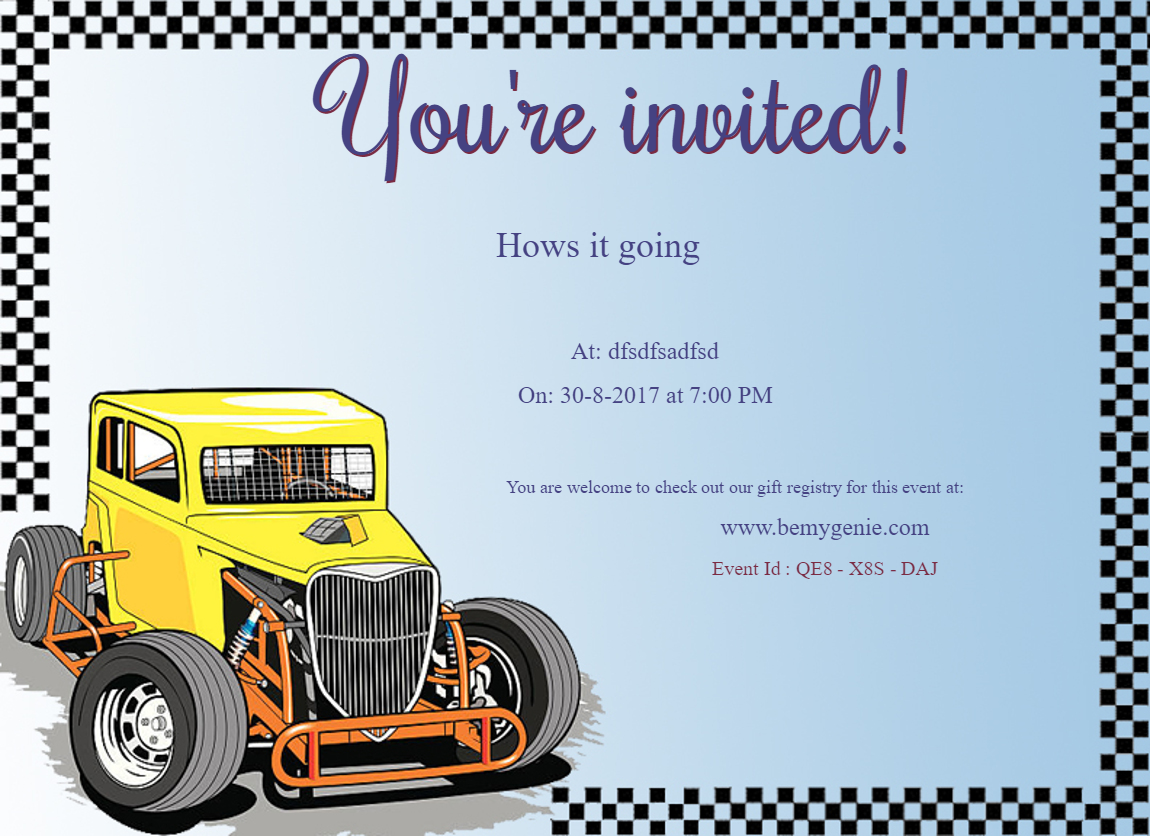
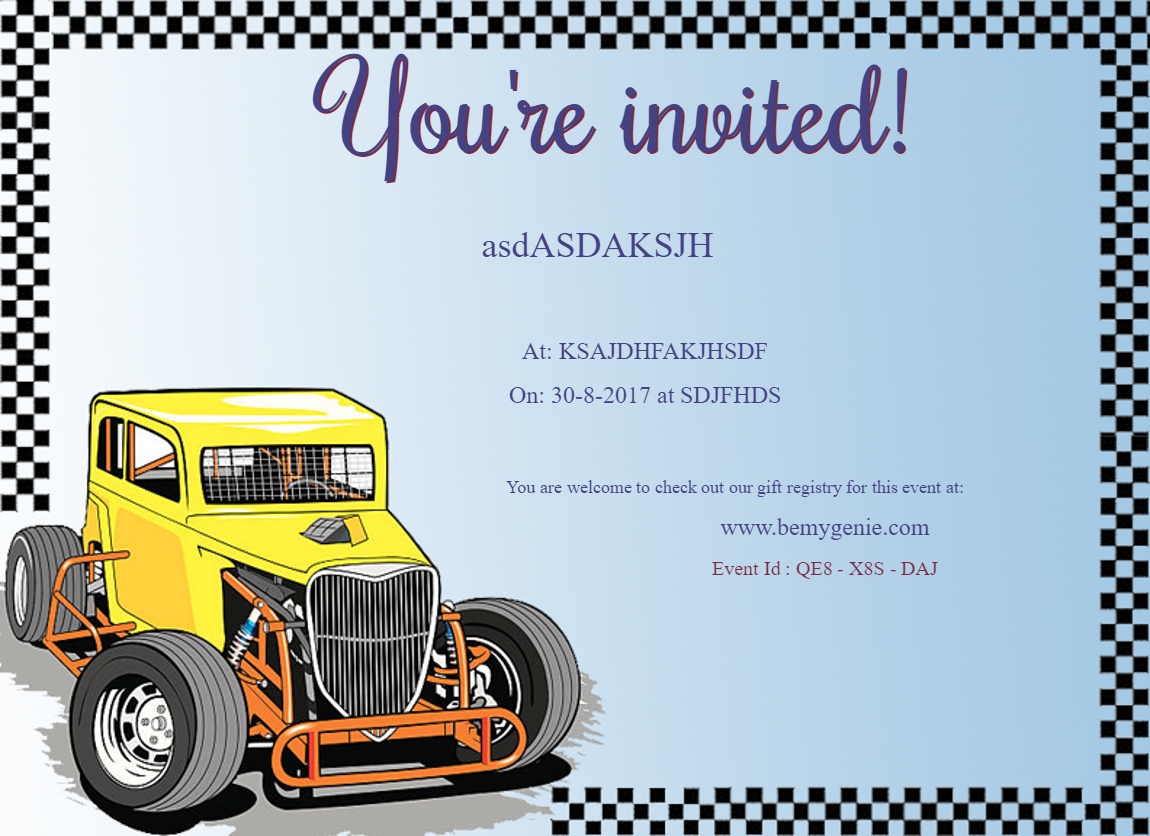
working on invites

Changed region(s): [[0.4261, 0.4665, 0.6696, 0.4976], [0.4565, 0.4043, 0.6696, 0.4354], [0.4261, 0.2799, 0.6391, 0.311]]

diff --git a/public/JSFiles/invite_composer.js b/public/JSFiles/invite_composer.js
@@ -1,4 +1,28 @@
 function startComposing(){
+  if ($('#event_greeting').val() == "") {
+    $('#warning_modal-title-id').text('Warning');
+    $('#warning_modal-p-id').text('Please provide an invite greeting.');
+    $('#warning_modal').modal('show');
+    return false;
+  }
+  if ($('#event_address').val() == "") {
+    $('#warning_modal-title-id').text('Warning');
+    $('#warning_modal-p-id').text('Please provide the address/venue for your event.');
+    $('#warning_modal').modal('show');
+    return false;
+  }
+  if ($('#event_date').val() == "") {
+    $('#warning_modal-title-id').text('Warning');
+    $('#warning_modal-p-id').text('Please provide the date for your event.');
+    $('#warning_modal').modal('show');
+    return false;
+  }
+  if ($('#event_time').val() == "") {
+    $('#warning_modal-title-id').text('Warning');
+    $('#warning_modal-p-id').text('Please provide a time for your event.');
+    $('#warning_modal').modal('show');
+    return false;
+  }
   var uid = getCookie('eventUID');
   var wid = getCookie('eventWID');
   alert(uid);
@@ -23,4 +47,9 @@ function getFile() {
     },
     error : function(res) {alert("Error with download!")}
   })
+}
+
+
+function showThanks() {
+  $('#options').html('<div class="col-sm-12" style="text-align:center;font-size:30px;">Thank You for using bemygenie invites!<br><button class="btn btn-default" onclick="location.href=\'/home\'">Home</button>  </div>')
 }

diff --git a/app.js b/app.js
@@ -172,10 +172,25 @@ app.get('/FAQ.html',function(req,res) {
   res.sendFile(__dirname + "/site/FAQ.html");
 })
 
-app.get('/invite.html',function(req,res) {
-  console.log(getTimeStamp() + 'invite|' + req.connection.remoteAddress);
-  res.sendFile(__dirname + "/email_templates/invite.html");
-})
+
+
+app.get('/invite.html',urlencodedParser, function (req,res) {
+  // Checking if a valid session exists.
+  if (req.session && req.session.user) {
+    //rendering Home page with user ID
+    // On load of the ejs file, it will use the user ID reference
+    // To pick information about the user.
+    console.log(getTimeStamp() + 'Invite|' + req.connection.remoteAddress)
+    res.render(__dirname + "/email_templates/invite.ejs",{userID : sha256(req.session.user),username: req.session.name});
+    //console.log("call made to home.html with valid session " + req.session.user);
+  } else {
+    // If this is not a valid session then the user gets a message that the
+    // session is not valid
+    // At a later time, this should be a login page
+    res.redirect('/');
+  }
+});
+
 
 app.get('/aboutus.html',function(req,res) {
   console.log(getTimeStamp() + 'About|' + req.connection.remoteAddress)

diff --git a/public/css/car.css b/public/css/car.css
@@ -85,7 +85,7 @@
   color:#454282;
 }
 .invite-row-btn {
-  position: absolute;
+  
   width: 90%;
   top:750px;
   left:150px;
